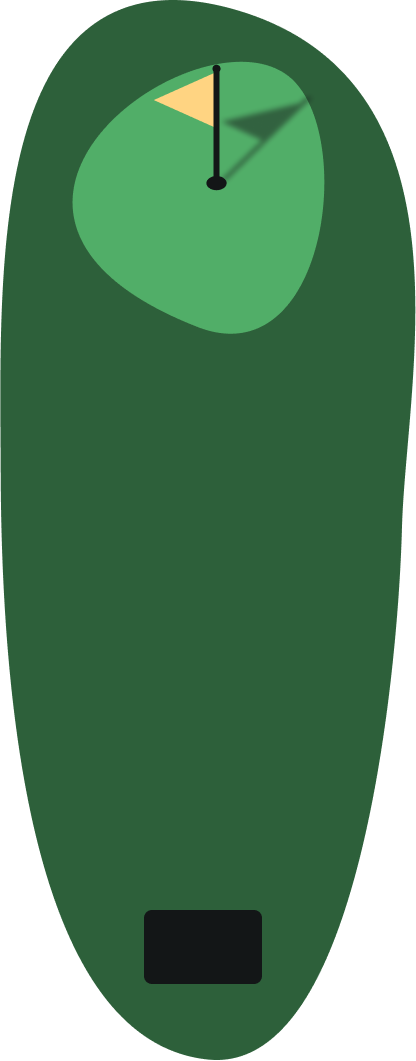
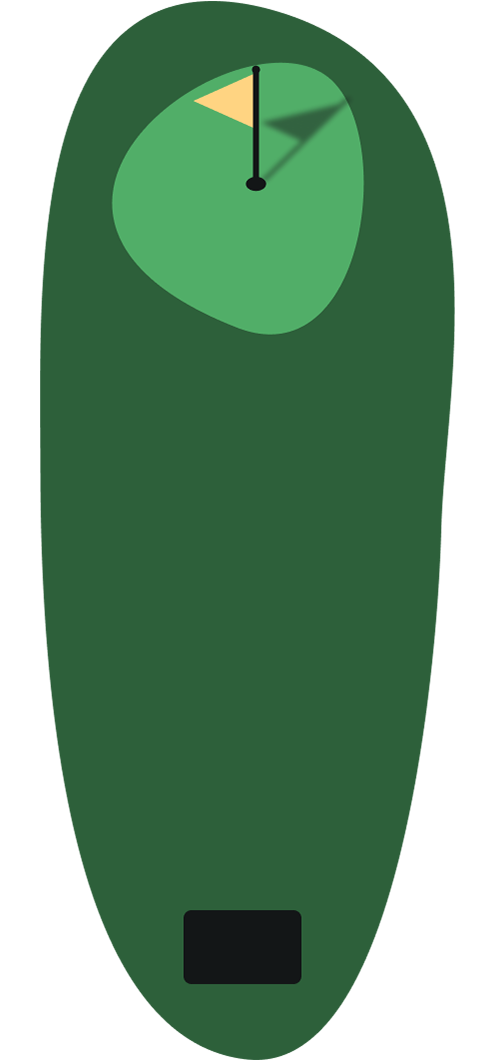
Add switching between holes

diff --git a/src/routes/Tracking.tsx b/src/routes/Tracking.tsx
@@ -1,25 +1,62 @@
 import ScoreBG from "../assets/ScoreBG.png";
-import Hole1 from "../assets/holes/1.png";
 import CircularButton from "../components/CircularButton";
 import React, { useState, useRef, useEffect } from "react";
 import "../App.css";
 import * as d3 from "d3";
-// import Hole2 from "../assets/holes/2.png";
-// import Hole3 from "../assets/holes/3.png";
-// import Hole4 from "../assets/holes/4.png";
-// import Hole5 from "../assets/holes/5.png";
-// import Hole6 from "../assets/holes/6.png";
-// import Hole7 from "../assets/holes/7.png";
-// import Hole8 from "../assets/holes/8.png";
-// import Hole9 from "../assets/holes/9.png";
+import Hole1 from "../assets/holes/1.png";
+import Hole2 from "../assets/holes/2.png";
+import Hole3 from "../assets/holes/3.png";
+import Hole4 from "../assets/holes/4.png";
+import Hole5 from "../assets/holes/5.png";
+import Hole6 from "../assets/holes/6.png";
+import Hole7 from "../assets/holes/7.png";
+import Hole8 from "../assets/holes/8.png";
+import Hole9 from "../assets/holes/9.png";
 
 const Tracking = () => {
+  const holeImages = [
+    Hole1,
+    Hole2,
+    Hole3,
+    Hole4,
+    Hole5,
+    Hole6,
+    Hole7,
+    Hole8,
+    Hole9,
+  ];
   const [putts, setPutts] = useState<number>(0);
   const [score, setScore] = useState<number>(0);
+  const [totalScore, setTotalScore] = useState<number>(0);
   const svgRef = useRef(null);
   const [shotHistory, setShotHistory] = useState<
     Array<{ x: string; y: string; length?: string; angle?: number }>
-  >([{ x: "49.3%", y: "90.5%" }]);
+  >([{ x: "50.5%", y: "90.5%" }]);
+  const [currentHole, setCurrentHole] = useState<number>(0);
+  const [holes, setHoles] = useState<
+    Array<{
+      putts: number;
+      score: number;
+      shotHistory: Array<{
+        x: string;
+        y: string;
+        length?: string;
+        angle?: number;
+      }>;
+    }>
+  >([]);
+
+  useEffect(() => {
+    if (!holes[currentHole]) {
+      setHoles((prev) => [
+        ...prev,
+        { putts: 0, score: 0, shotHistory: [{ x: "50.5%", y: "90.5%" }] },
+      ]);
+    }
+    setPutts(holes[currentHole]?.putts || 0);
+    setScore(holes[currentHole]?.score || 0);
+    setShotHistory(holes[currentHole]?.shotHistory || []);
+  }, [currentHole, holes]);
 
   useEffect(() => {
     if (shotHistory.length < 1) return;
@@ -69,6 +106,38 @@ const Tracking = () => {
         ) => (i === shotHistory.length - 1 ? "white" : "black")
       );
 
+    const defs = svg.append("defs");
+
+    const filter = defs
+      .append("filter")
+      .attr("id", "dropshadow")
+      .attr("x", "-50%")
+      .attr("y", "-50%")
+      .attr("width", "200%")
+      .attr("height", "200%");
+
+    filter
+      .append("feFlood")
+      .attr("flood-color", "black")
+      .attr("result", "floodOutput");
+
+    filter
+      .append("feComposite")
+      .attr("in", "floodOutput")
+      .attr("in2", "SourceAlpha")
+      .attr("operator", "in")
+      .attr("result", "compositeOutput");
+
+    filter
+      .append("feOffset")
+      .attr("dx", 1.5)
+      .attr("dy", 1.5)
+      .attr("result", "offsetOutput");
+
+    const feMerge = filter.append("feMerge");
+    feMerge.append("feMergeNode").attr("in", "offsetOutput");
+    feMerge.append("feMergeNode").attr("in", "SourceGraphic");
+
     svg
       .selectAll("text")
       .data(shotHistory)
@@ -77,9 +146,8 @@ const Tracking = () => {
       .attr("x", (d: { x: string }) => (parseFloat(d.x) / 100) * svgWidth)
       .attr("y", (d: { y: string }) => {
         const yPos = (parseFloat(d.y) / 100) * svgHeight;
-        return yPos < 20 ? yPos + 25 : yPos - 15; // assuming 20 as a buffer value
+        return yPos < 25 ? yPos + 35 : yPos - 15; // assuming 20 as a buffer value
       })
-
       .text(
         (
           _d: { x: string; y: string; length?: string; angle?: number },
@@ -87,29 +155,55 @@ const Tracking = () => {
         ) => (i !== 0 ? i.toString() : "")
       )
       .attr("fill", "white")
-      .attr("font-size", "16px")
+      .attr("font-size", "24px")
       .attr("text-anchor", "middle")
       .attr("font-family", "Archivo")
-      .attr("font-weight", "bold");
+      .attr("font-weight", "900")
+      .attr("stroke", "black")
+      .attr("stroke-width", "6px")
+      .attr("paint-order", "stroke fill")
+      .attr("filter", "url(#dropshadow)");
   }, [shotHistory]);
 
   const incrementPutts = () => {
     setPutts((prevPutts) => prevPutts + 1);
     setScore((prevScore) => prevScore + 1);
+    setTotalScore((prevScore) => prevScore + 1);
   };
 
   const decrementPutts = () => {
+    if (putts === 0) return;
     setPutts((prevPutts) => prevPutts - 1);
     setScore((prevScore) => prevScore - 1);
+    setTotalScore((prevScore) => prevScore - 1);
   };
 
   const undoShot = () => {
     setShotHistory((prevHistory) => prevHistory.slice(0, -1));
     setScore((prevScore) => prevScore - 1);
+    setTotalScore((prevScore) => prevScore - 1);
   };
 
   const submitScore = () => {
-    console.log("Score submitted!");
+    if (currentHole === 8) {
+      alert("Game Over!");
+      return;
+    } else {
+      saveCurrentHoleData();
+      setCurrentHole((prevHole) => prevHole + 1);
+    }
+  };
+
+  const prevHole = () => {
+    if (currentHole === 0) return;
+    saveCurrentHoleData();
+    setCurrentHole((prevHole) => prevHole - 1);
+  };
+
+  const saveCurrentHoleData = () => {
+    const updatedHoles = [...holes];
+    updatedHoles[currentHole] = { putts, score, shotHistory };
+    setHoles(updatedHoles);
   };
 
   const handleTap = (e: React.MouseEvent<HTMLDivElement, MouseEvent>) => {
@@ -123,6 +217,7 @@ const Tracking = () => {
 
     if (x >= 0 && x <= rect.width && y >= 0 && y <= rect.height) {
       setScore((prevScore) => prevScore + 1);
+      setTotalScore((prevScore) => prevScore + 1);
       setShotHistory((prevHistory) => [
         ...prevHistory,
         { x: xPercent + "%", y: yPercent + "%" },
@@ -139,8 +234,8 @@ const Tracking = () => {
       }}
     >
       <div className="flex w-full mt-2 justify-evenly absolute top-0">
-        <div className="flex flex-col items-center">
-          <h1 className="font-archivo font-medium italic text-green-700 opacity-75">
+        <div className="flex flex-col items-center" onClick={prevHole}>
+          <h1 className="font-archivo font-semibold italic text-green-700 opacity-75">
             HOLE
           </h1>
           <div
@@ -150,12 +245,12 @@ const Tracking = () => {
             }}
           >
             <h1 className="font-archivo font-black text-green-700 text-4xl">
-              #1
+              #{currentHole + 1}
             </h1>
           </div>
         </div>
         <div className="flex flex-col items-center">
-          <h1 className="font-archivo font-medium italic text-green-700 opacity-75">
+          <h1 className="font-archivo font-semibold italic text-green-700 opacity-75">
             SCORE
           </h1>
           <div
@@ -170,7 +265,7 @@ const Tracking = () => {
           </div>
         </div>
         <div className="flex flex-col items-center">
-          <h1 className="font-archivo font-medium italic text-green-700 opacity-75">
+          <h1 className="font-archivo font-semibold italic text-green-700 opacity-75">
             TOTAL
           </h1>
           <div
@@ -180,7 +275,7 @@ const Tracking = () => {
             }}
           >
             <h1 className="font-archivo font-black text-green-700 text-4xl">
-              21
+              {totalScore}
             </h1>
           </div>
         </div>
@@ -190,8 +285,8 @@ const Tracking = () => {
         onClick={handleTap}
         style={{
           position: "relative",
-          backgroundImage: `url(${Hole1})`,
-          backgroundSize: "30%",
+          backgroundImage: `url(${holeImages[currentHole]})`,
+          backgroundSize: "40%",
           backgroundRepeat: "no-repeat",
           backgroundPosition: "bottom",
         }}
@@ -221,7 +316,7 @@ const Tracking = () => {
                 {putts}
               </h1>
             </div>
-            <h1 className="pt-1 font-archivo font-medium italic text-green-700 opacity-75">
+            <h1 className="pt-1 font-archivo font-semibold italic text-green-700 opacity-75">
               PUTTS
             </h1>
           </div>
